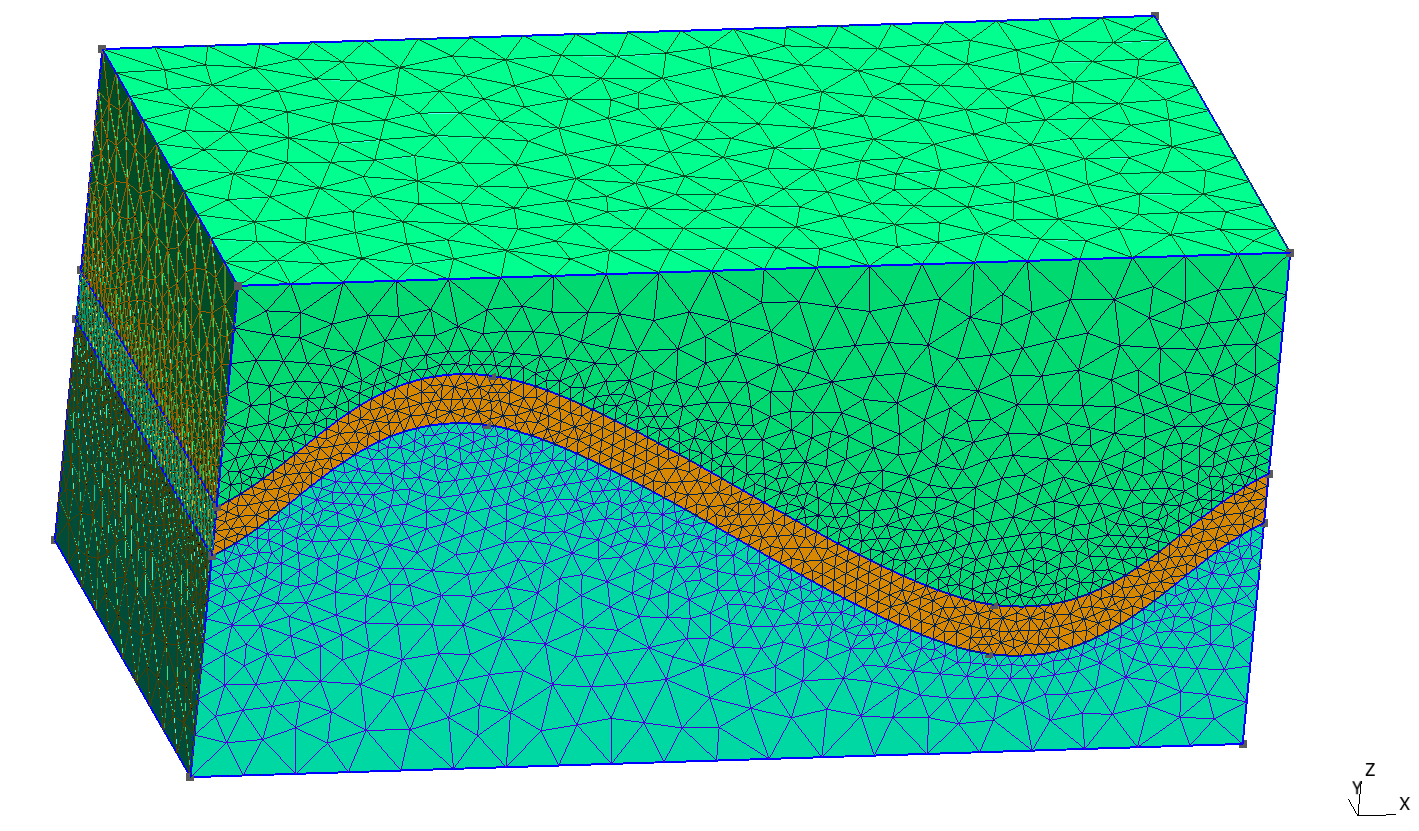
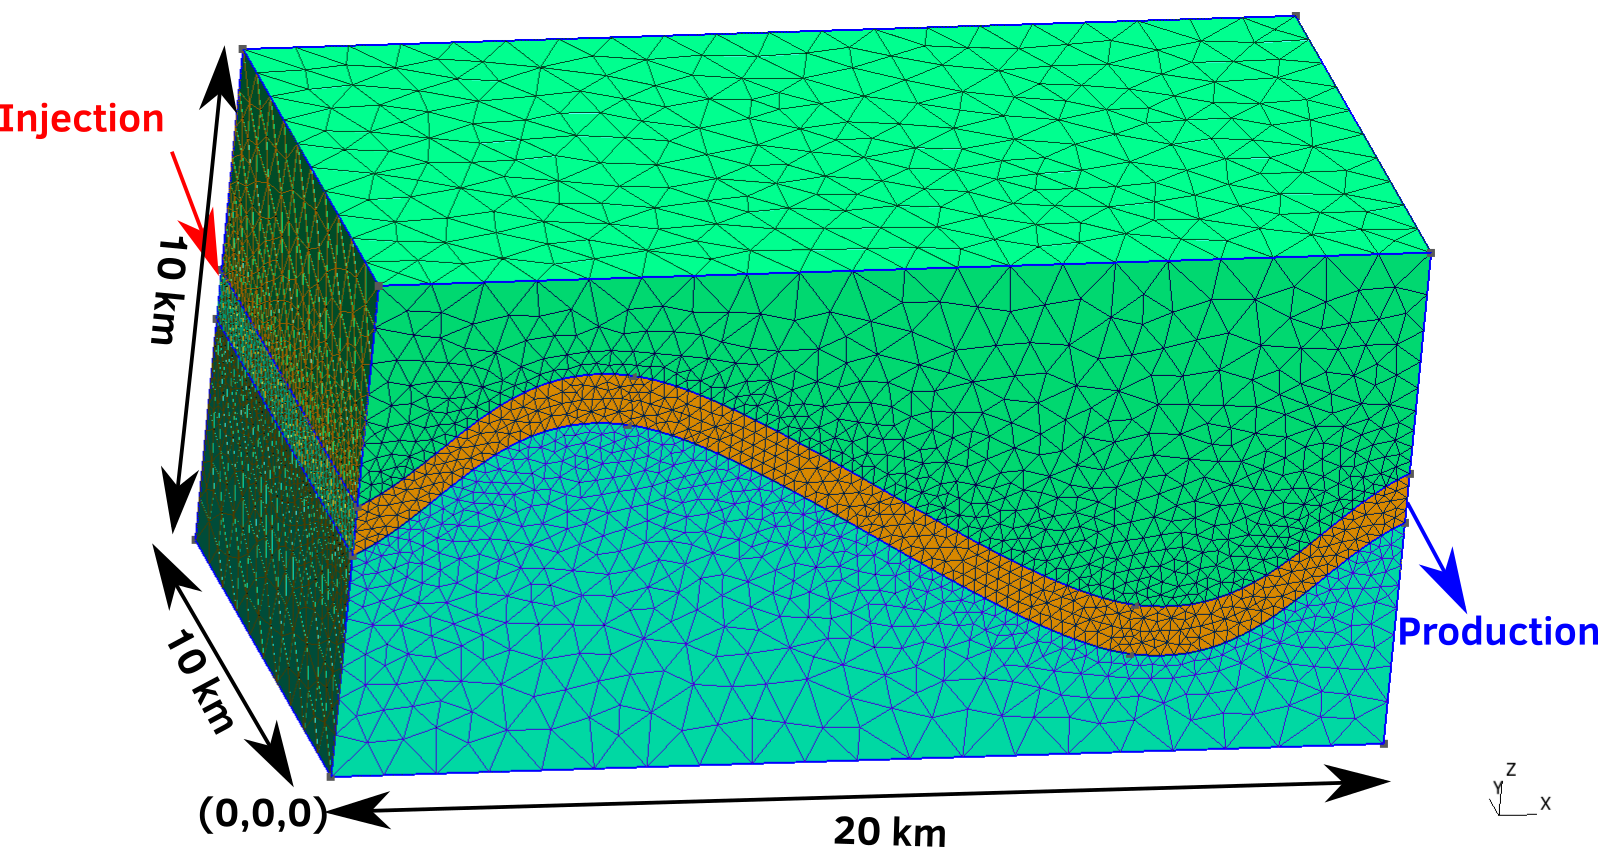
Update the tutorial

diff --git a/src/docs/sphinx/tutorials/fieldCase/Tutorial.rst b/src/docs/sphinx/tutorials/fieldCase/Tutorial.rst
@@ -14,11 +14,11 @@ simulations.
 In GEOSX, all the simulations parameters have to appear in a XML file, between the XML tags
 
 .. code-block:: xml
+
   <?xml version="1.0" ?>
   <Problem>
    ...
   </Problem>
-
 
 *****************
 Domain definition
@@ -44,8 +44,9 @@ the supported mesh file format). Each tetrahedra has an elementary tag associate
   will be defined in GEOSX, we have to substract 1 from the GMSH tag to refer
   to the same region. The next sections of this tutorial will illustrate this.
 
+***************************
 Importing the mesh in GEOSX
-^^^^^^^^^^^^^^^^^^^^^^^^^^^
+***************************
 
 The mesh has to be defined using the Mesh tag (see :ref:`Meshes`). For this problem, we
 will use the ``PAMELAMeshGenerator`` to load the mesh (see :ref:`ImportingExternalMesh`).
@@ -58,6 +59,10 @@ be set.
   :start-after: <!-- SPHINX_FIELD_CASE_MESH -->
   :end-before: <!-- SPHINX_FIELD_CASE_MESH_END -->
 
+.. note::
+  We present in this tutorial the XML blocks in a specific order for the sake of clarity of the explainations. Please
+  keep in mind that this order can be whatever you want.
+
 ************************
 Running flow simulations
 ************************
@@ -67,7 +72,9 @@ GEOSX capabilities to handle reservoir simulations.
 To ease the demonstration, we make the assumption that the overburden and the underburden are impermeable, the flow only happen in the reservoir. There is two ways to achieve that.
 
 The first solution is to define a unique ``CellElementRegion`` corresponding to the reservoir.
+
 .. code-block:: xml
+
   <ElementRegion>
     <CellElementRegion name="ReservoirLayer"
                        cellBlocks="{1_TETRA}"
@@ -93,8 +100,16 @@ We choose the latest in order to keep the burdens for the visualization.
   The material list here was set for a single phase flow problem. This list is subject
   to change if the problem is not a single phase flow problem.
 
-Single Phase Flow
-^^^^^^^^^^^^^^^^^
+Single Phase Flow, no well
+==========================
+
+In this first section, we will present how to run a basic flow simulation in the reservoir layer.
+We do not consider any coupling with wells. The injection and production will be mimiced by
+imposing a high pressure in the cells close to the injection area and a low pressure
+in the cells close to the production area.
+
+Material definition
+-------------------
 
 We first simulate a single phase flow in the reservoir layer. We define the two materials
 involved in the simulation : the only fluid (water) and the solid (rock).
@@ -110,6 +125,9 @@ be modified here using the International System of Units.
 .. note::
   To consider an incompressible fluid, the user has to set the compressibility to 0.
 
+Numerical methods settings
+--------------------------
+
 Once the materials are defined, we define the numerical method that will be used in the solver.
 We propose to use the classical two-point flux approximation scheme.
 
@@ -121,7 +139,11 @@ We propose to use the classical two-point flux approximation scheme.
 The ``TwoPointFluxApproximation`` node has to contain the primary field to be solved in
 ``fieldName``. For a flow problem it is the pressure.
 
+Solver settings
+---------------
+
 The ``Solver`` XML tag is then set.
+
 .. literalinclude:: ../../../../coreComponents/physicsSolvers/multiphysics/integratedTests/FieldCaseTutorial1.xml
   :language: xml
   :start-after: <!-- SPHINX_FIELD_CASE_SOLVER -->
@@ -136,3 +158,88 @@ and ``solidNames`` refers to the previously defined materials in the ``Constitut
 The ``NonlinearSolverParameters`` and ``SystemSolverParameters`` are then used to set the
 numerical solver parameters such as the Newton tolerance and the maximum number of
 iterations.
+
+Defining geometry boxes
+-----------------------
+
+The geometry boxes are useful in order to flag some cells or nodes within it. We will use it
+this GEOSX feature to mimic the injection and production.
+
+.. literalinclude:: ../../../../coreComponents/physicsSolvers/multiphysics/integratedTests/FieldCaseTutorial1.xml
+  :language: xml
+  :start-after: <!-- SPHINX_FIELD_CASE_GEOMETRY -->
+  :end-before: <!-- SPHINX_FIELD_CASE_GEOMETRY_END -->
+
+In order to define a box, the user had to define ``xMax`` and ``xMin`` that are two opposite nodes of the box.
+
+.. note::
+  In the previous XML snippet, the box ``all`` includes the whole model. This box has to be defined for every problem
+  involving the import of an external mesh
+
+Field specification
+-------------------
+
+The next step is to specify fields, including:
+
+  - The initial value (here, the pressure has to be initialized)
+  - The static properties (here, we have to define the permeability tensor and the porosity)
+  - The boundary conditions (here, the injection and production pressure have to be set)
+
+.. literalinclude:: ../../../../coreComponents/physicsSolvers/multiphysics/integratedTests/FieldCaseTutorial1.xml
+  :language: xml
+  :start-after: <!-- SPHINX_FIELD_CASE_GEOMETRY -->
+  :end-before: <!-- SPHINX_FIELD_CASE_GEOMETRY_END -->
+
+You may note :
+
+ - All static parameters and initial value fields have to present the ``initialCondition`` field set to ``1``.
+ - The ``objectPath`` refers to the ``ÈlementRegion`` in which the field value has
+ - The ``setName`` field points to the box previously defined to apply the fields. 
+ - Tensors values has to be set component by component. GEOSX deals with a diagonal matrix for
+   the permeability, so the three values of the permeability tensor are set individually
+   using ``component`` field.
+ - ``name`` and ``fieldName`` have a different meaning. ``name`` is used to give a name to the XML block. It has
+   to be unique. ``fieldName`` is the name of the field register in GEOSX. This value has to be set carefully
+   in accordance with the documentation of each solver.
+
+Defining output
+---------------
+
+The ``Output`` XML tag is used to trigger the writing of visualization files. Here we propose
+to write files natively readable by Paraview.
+
+.. literalinclude:: ../../../../coreComponents/physicsSolvers/multiphysics/integratedTests/FieldCaseTutorial1.xml
+  :language: xml
+  :start-after: <!-- SPHINX_FIELD_CASE_OUTPUT -->
+  :end-before: <!-- SPHINX_FIELD_CASE_OUTPUT_END -->
+
+.. note::
+  The ``name`` keyword defines the name of the output file.
+
+Triggering events
+-----------------
+
+The final steps is to organize events so the simulation and the outputs can be triggered.
+
+.. literalinclude:: ../../../../coreComponents/physicsSolvers/multiphysics/integratedTests/FieldCaseTutorial1.xml
+  :language: xml
+  :start-after: <!-- SPHINX_FIELD_CASE_EVENTS -->
+  :end-before: <!-- SPHINX_FIELD_CASE_EVENTS_END -->
+
+The ``Events`` tag is associated with the ``maxTime`` keyword defining the maximum time. If this time is
+ever reached or exceeded, the simulation will end.
+
+Two ``PeriodicEvent`` are then defined. The first one is associated with the solver. The  ``forceDt`` keyword
+means that there will always be time-steps of 20 seconds. The second is associated with the output. The ``timeFrequency``
+keyword means that it will be executed every 100 seconds. The ``targetExactTimestep`` is set to 1, meaning that
+the Event Manager will impose this event will be triggered exactly every 100 seconds.
+
+Lauching the simulation
+-----------------------
+
+The simulation can be launched with:
+
+.. codeblock:: sh
+
+  geosx -i FieldCaseTutorial1.xml
+
